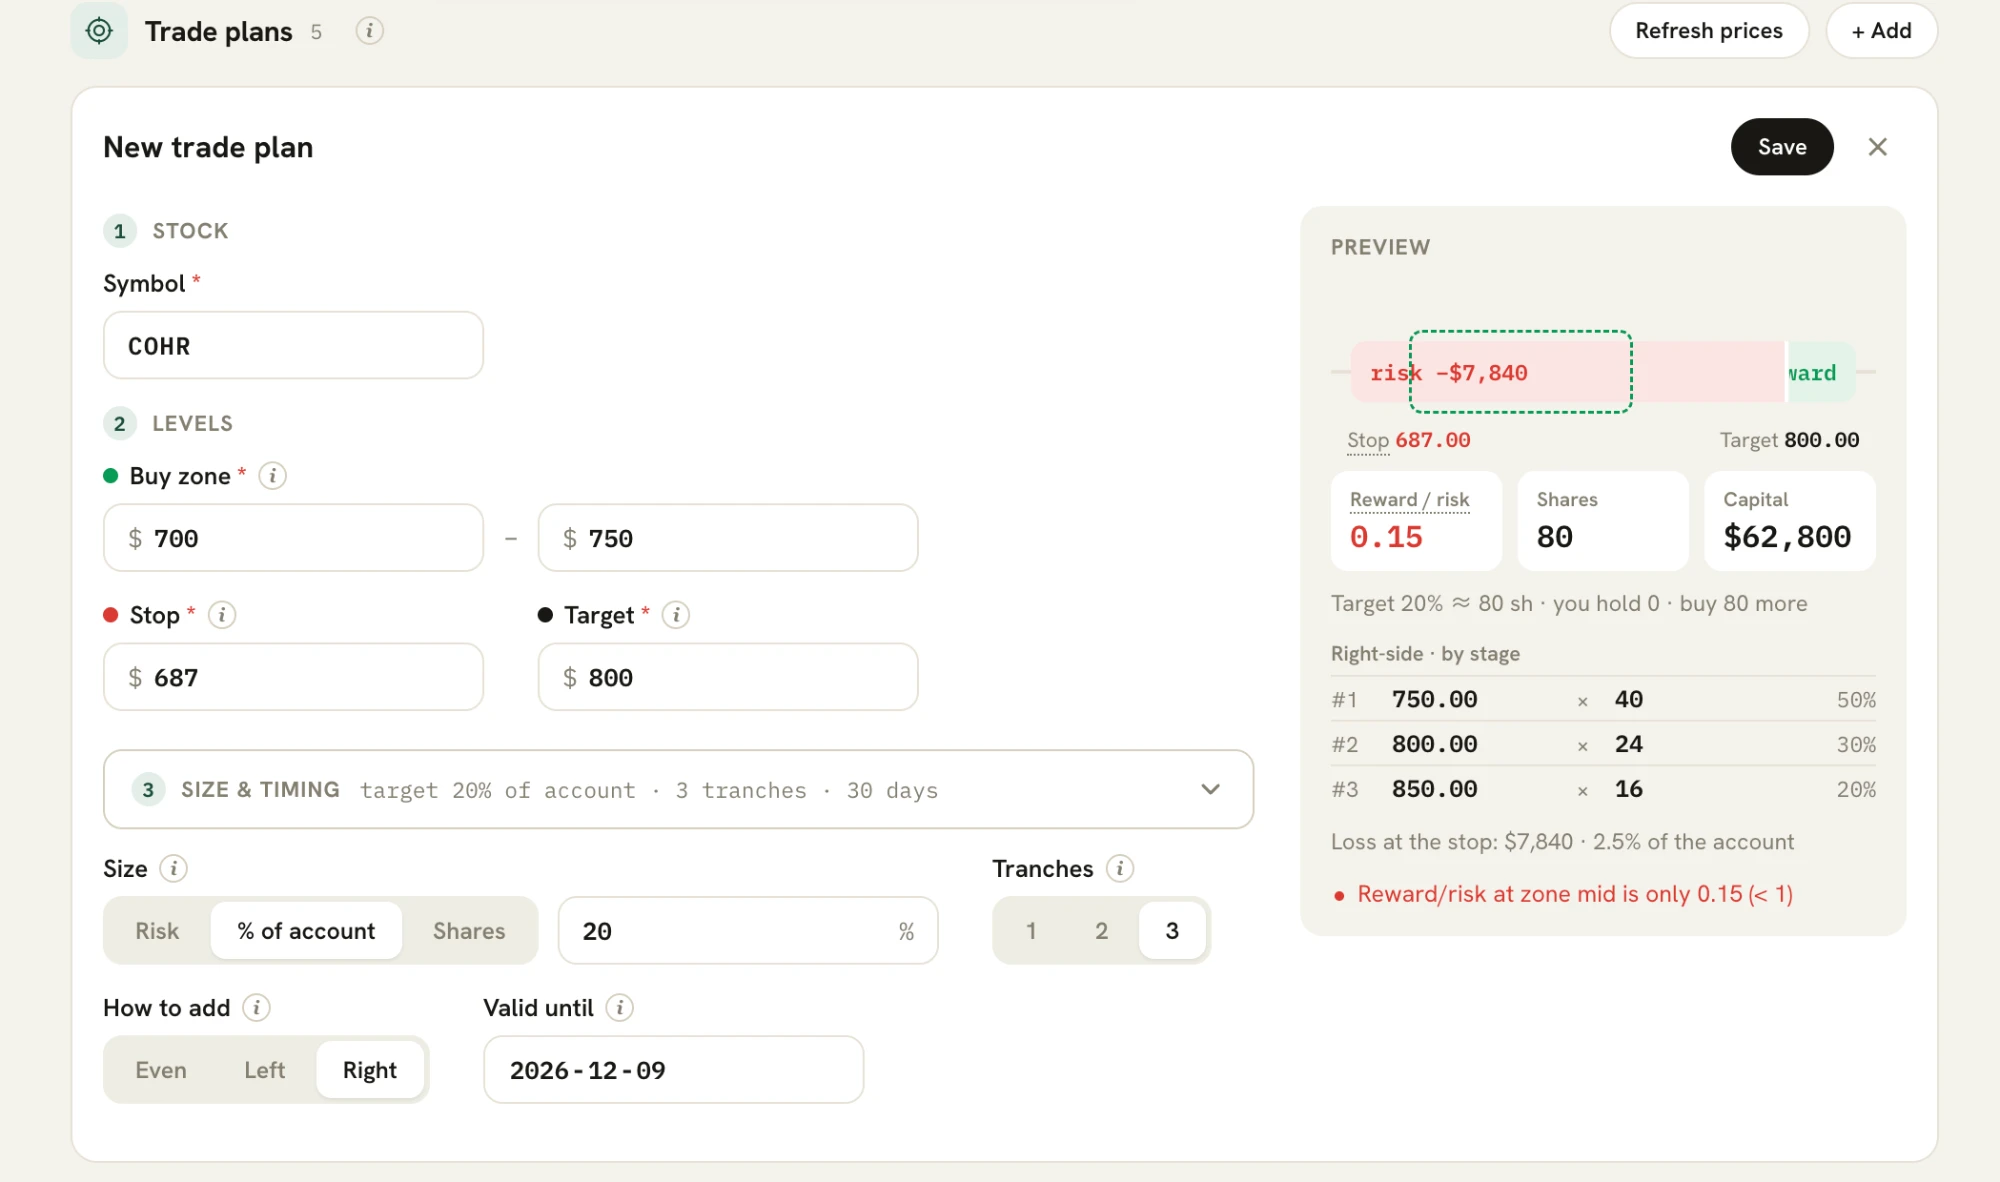
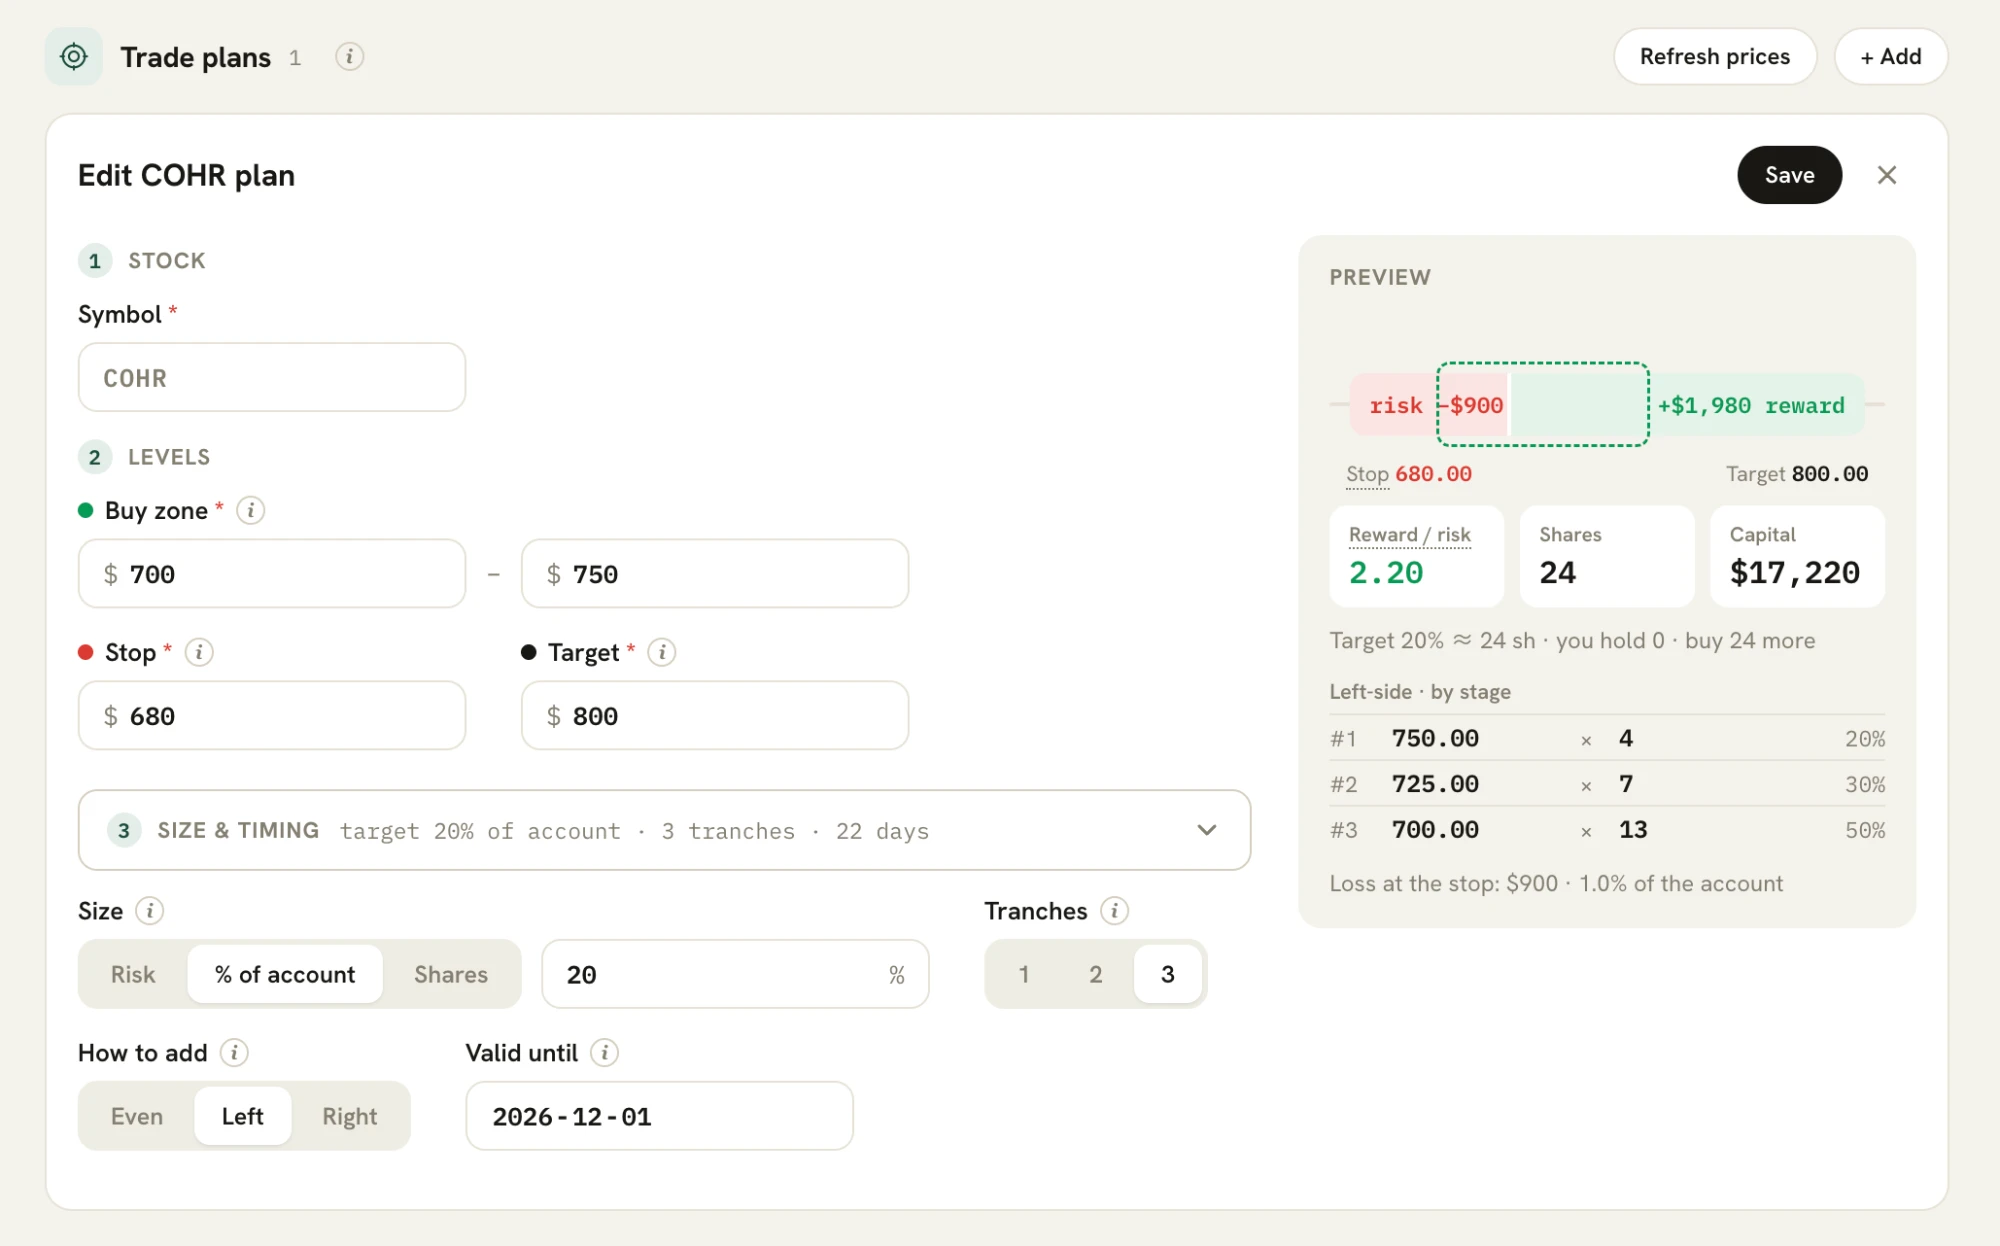
LOOP Core flow: new plan image; remove click to enlarge; plan card matches the image

diff --git a/loop/index.html b/loop/index.html
@@ -198,12 +198,7 @@ h3{font-size:clamp(24px,2.6vw,32px);font-weight:600;line-height:1.12;letter-spac
 .slot{margin-top:auto;border:2px dashed var(--line);border-radius:18px;aspect-ratio:16/10;max-width:100%;display:flex;flex-direction:column;align-items:center;justify-content:center;gap:8px;color:var(--ink-3);text-align:center;padding:16px}
 .slot svg{width:36px;height:36px}
 .slot.has-img{border:0;padding:0;aspect-ratio:auto;border-radius:14px;overflow:hidden;box-shadow:0 8px 24px rgba(20,20,20,.12)}
-.slot.has-img{position:relative}
-.slot.has-img img{display:block;width:100%;height:auto;cursor:zoom-in}
-.slot.has-img::after{content:"Click to enlarge";position:absolute;right:10px;bottom:10px;background:rgba(20,20,20,.78);color:#fff;font:600 11px/1 var(--f-mono);letter-spacing:.04em;padding:7px 10px;border-radius:999px;pointer-events:none}
-.lb{position:fixed;inset:0;z-index:300;background:rgba(20,20,20,.88);display:grid;place-items:center;padding:24px;cursor:zoom-out;overflow:auto}
-.lb img{display:block;width:min(96vw,1700px);max-height:none;height:auto;border-radius:12px;box-shadow:0 20px 60px rgba(0,0,0,.4)}
-.lb button{position:fixed;top:16px;right:16px;width:44px;height:44px;border-radius:50%;border:0;background:#fff;color:#141414;font-size:22px;line-height:1;cursor:pointer}
+.slot.has-img img{display:block;width:100%;height:auto}
 .slot.old{border-color:#E9B796;color:#8C5E43}
 @media (max-width:820px){.pair{grid-template-columns:1fr}}
 
@@ -806,21 +801,21 @@ input[type=range]:focus-visible{outline:3px solid var(--lilac);outline-offset:4p
         <div class="ruler" id="ruler">
           <div class="axis"></div>
           <div class="band risk" id="bRisk">−$1,140</div>
-          <div class="band rew" id="bRew">+$2,250</div>
+          <div class="band rew" id="bRew">+$2,460</div>
           <div class="zone" id="zone"></div>
           <div class="now" id="now"></div>
           <span class="nowlab" id="nowlab">785.20</span>
-          <span class="lab" id="labStop" style="color:var(--loss)">Stop 687</span>
+          <span class="lab" id="labStop" style="color:var(--loss)">Stop 680</span>
           <span class="lab" id="labZone" style="color:var(--gain);top:0">Zone 700–750</span>
           <span class="lab" id="labTgt" style="transform:translateX(-100%)">Target 800</span>
         </div>
         <div class="kpis">
-          <div><span>Reward / risk</span><b style="color:var(--gain)">2.0</b></div>
+          <div><span>Reward / risk</span><b style="color:var(--gain)">2.2</b></div>
           <div><span>Shares</span><b id="kSh">30</b></div>
-          <div><span>Capital</span><b id="kCap">$21,750</b></div>
+          <div><span>Capital</span><b id="kCap">$21,540</b></div>
         </div>
         <div class="buys" id="buys"></div>
-        <p id="limit" class="calm">● 24.9% of account, inside your 40% limit</p>
+        <p id="limit" class="calm">● 24.6% of account, inside your 40% limit</p>
       </div>
     </div>
   </div>
@@ -949,7 +944,7 @@ document.querySelectorAll('#nav-mobile-menu a').forEach(a=>a.addEventListener('c
   var steps=[
     {n:"Spot",oh:"You scroll six apps for an hour to find one idea.",op:"Nothing says why a stock is worth a look.",nh:"The momentum board finds COHR and says why.",np:"5 of 7 conditions met. Each one is a plain sentence.",s:"Screen recording: momentum board",img:"../images/loop/step1-momentum.webp",iw:2000,ih:1187,ia:"The LOOP momentum board: held positions with HOLD and SELL, then candidates such as NVDA, COHR, MU, CRDO and SKHY, each with a score out of 7, a breakout price and a stop"},
     {n:"Decide",oh:"You draw support lines by hand and hope they're right.",op:"A different answer every day.",nh:"The stock page says it plainly: strong, but overheated.",np:"Uptrend, RSI 81. Wait for a pullback to 700–750.",s:"Screen recording: COHR stock page",img:"../images/loop/step2-stock.webp",iw:2000,ih:1525,ia:"The LOOP stock page for COHR: an Uptrend near the 20-day high, a 120-day candlestick chart with support bands, RSI 81, and key levels"},
-    {n:"Plan",oh:"The plan lives in your head, with no stop and a size picked by feel.",op:"Around 725, buy some. No stop. Size by mood.",nh:"I pick how much I'll risk, and LOOP works out the rest.",np:"$1,140 of risk → 30 shares in three buys. Try it below.",s:"Screen recording: creating the plan",img:"../images/loop/step3-plan.webp",iw:2000,ih:1182,ia:"The LOOP New trade plan form for COHR: buy zone 700 to 750, stop 687, target 800, size as a percent of the account in three tranches, with a live preview of reward to risk, shares and capital"},
+    {n:"Plan",oh:"The plan lives in your head, with no stop and a size picked by feel.",op:"Around 725, buy some. No stop. Size by mood.",nh:"I pick how much I'll risk, and LOOP works out the rest.",np:"$1,140 of risk → 30 shares in three buys. Try it below.",s:"Screen recording: creating the plan",img:"../images/loop/step3-plan.webp",iw:2000,ih:1246,ia:"The LOOP Edit COHR plan form: buy zone 700 to 750, stop 680, target 800, size 20 percent of the account in three tranches, with a live preview of reward to risk 2.2, shares and capital"},
     {n:"Wait",oh:"You stare at the screen all day, or set alerts one at a time.",op:"The market owns your attention.",nh:"Today tells me when COHR reaches the zone, and stays quiet otherwise.",np:"First buy: 10 shares at 750.",s:"Screen recording: Today view"},
     {n:"Buy",oh:"You chase the move, then forget why you bought.",op:"FOMO wins. The plan is gone.",nh:"I import the statement, and every fill finds its plan.",np:"The off-plan buy gets flagged. No manual tagging.",s:"Screen recording: importing an IBKR statement"},
     {n:"Learn",oh:"A spreadsheet can't tell a plan from an impulse.",op:"So the same mistakes repeat.",nh:"My own trades show whether discipline pays.",np:"Planned trades made $310 more each, in the sample.",s:"Screen recording: Review"}
@@ -974,19 +969,8 @@ document.querySelectorAll('#nav-mobile-menu a').forEach(a=>a.addEventListener('c
   set(0);
   }
 
-  /* enlarge the step picture */
-  document.addEventListener('click',function(e){
-    var im=e.target.closest&&e.target.closest('#slot.has-img img');if(!im)return;
-    var lb=document.createElement('div');lb.className='lb';lb.setAttribute('role','dialog');lb.setAttribute('aria-label','Enlarged picture');
-    lb.innerHTML='<img src="'+im.src+'" alt="'+im.alt.replace(/"/g,'&quot;')+'"><button type="button" aria-label="Close">×</button>';
-    function close(){document.removeEventListener('keydown',key);lb.remove();document.body.style.overflow=''}
-    function key(k){if(k.key==='Escape')close()}
-    lb.addEventListener('click',close);document.addEventListener('keydown',key);
-    document.body.style.overflow='hidden';document.body.appendChild(lb);lb.querySelector('button').focus();
-  });
-
   /* plan card */
-  var AVG=725,STOP=687,TGT=800,NOW=785.2,ACCT=87500,LIM=0.40,LO=665,HI=830;
+  var AVG=718,STOP=680,TGT=800,NOW=785.2,ACCT=87500,LIM=0.40,LO=665,HI=830;
   var $=function(id){return document.getElementById(id)};
   function money(v){return '$'+Math.round(v).toLocaleString('en-US')}
   function pos(p){return ((p-LO)/(HI-LO)*100)+'%'}
